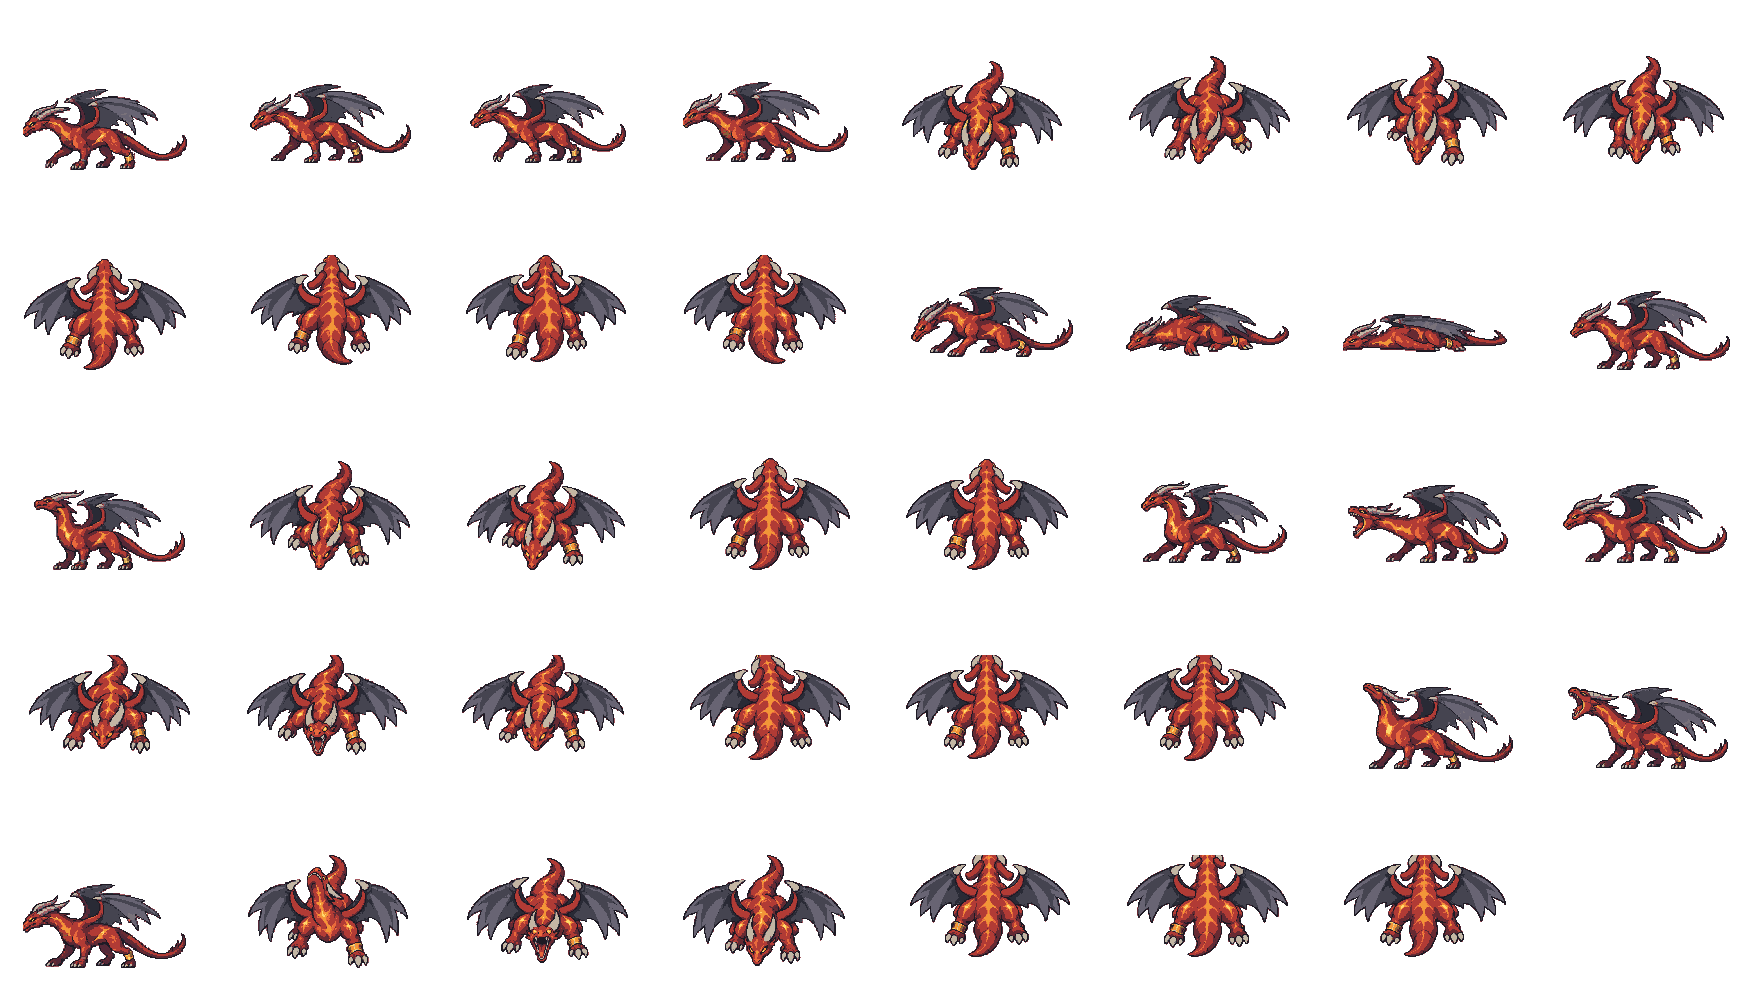
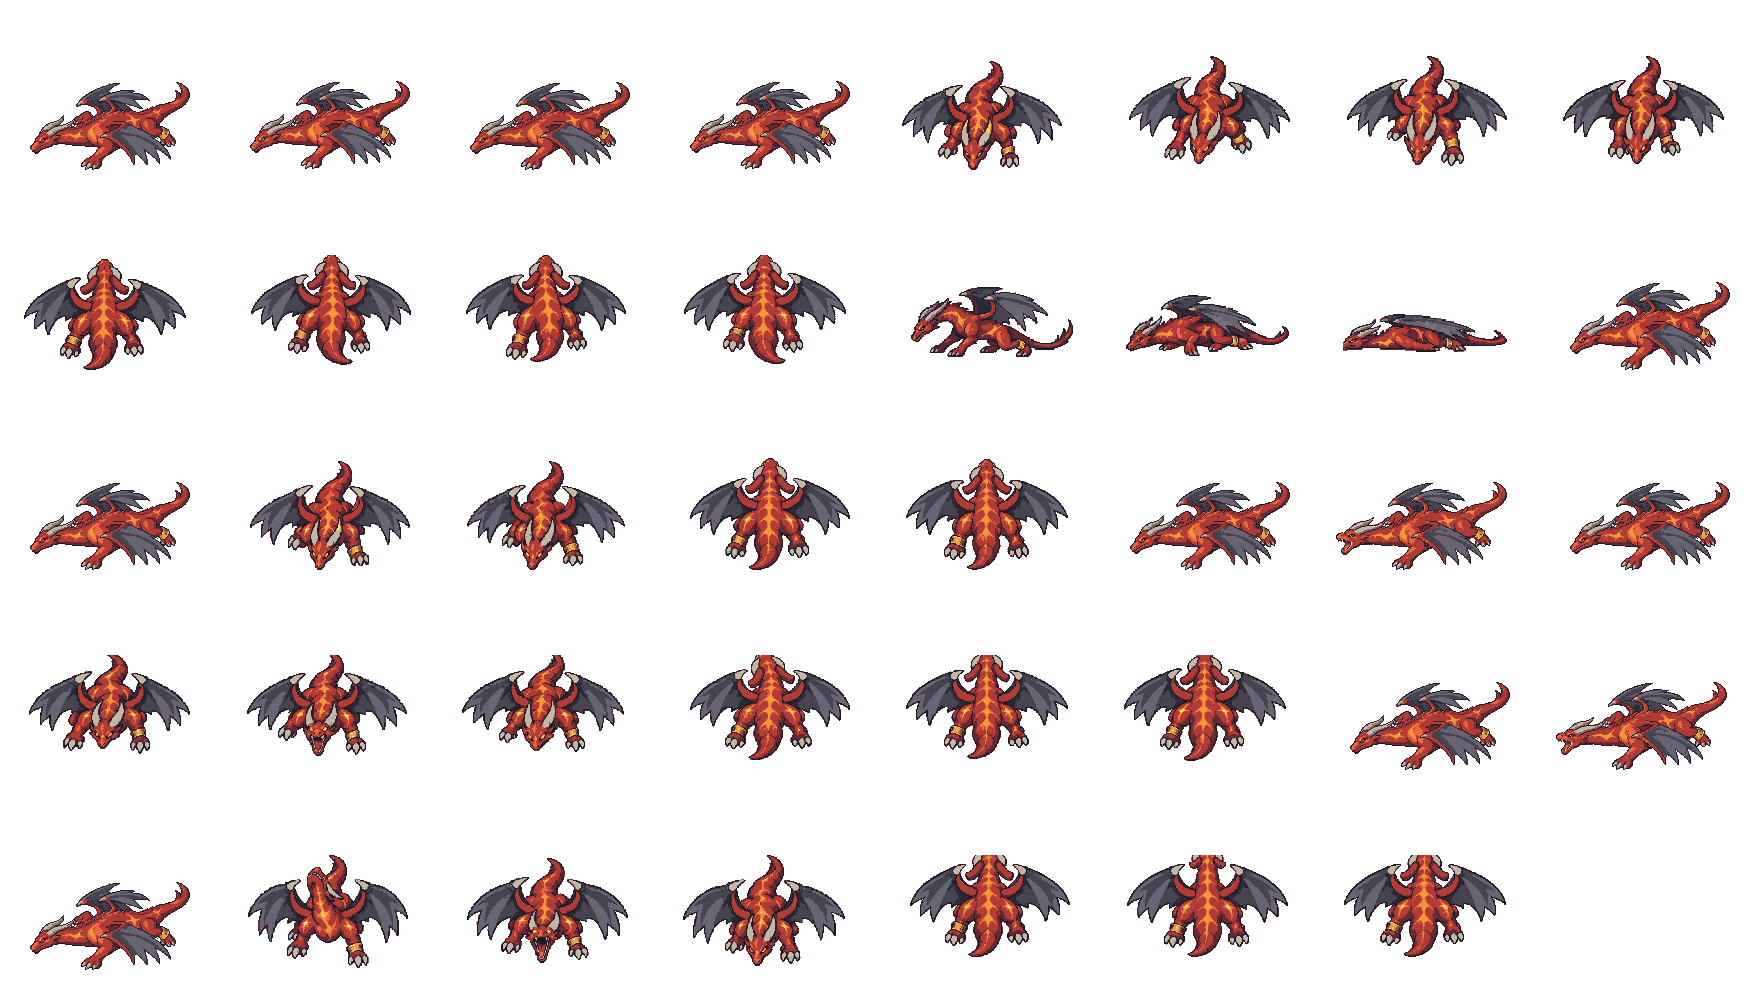
Nowy rzut smoka ognistego (z góry), smoki rysowane według stóp, kupiec przy rondzie jako 1–5 działających straganów
Claude-Session: https://claude.ai/code/session_0186B56UngdyZ3nbG8b67Ype

diff --git a/src/scenes/GameScene.ts b/src/scenes/GameScene.ts
@@ -19,6 +19,7 @@ import type { Korona } from '../map/Korony';
 import { Pociagi } from '../map/Pociagi';
 import { torStacji } from '../map/perony';
 import { WYGLAD_09 } from '../map/Podloze09';
+import { straganObraz } from '../map/targ09';
 import { GEN_DOTS } from '../map/ziemia09';
 import { DRZEWA_09 } from '../content/korony';
 import { Explored, FogView, visionPolygon, BASE_VIEW_RANGE, pointInPolygon, markBuilding } from '../map/Fog';
@@ -349,6 +350,7 @@ export class GameScene extends Phaser.Scene {
   }
 
   create() {
+    this.stalls = [];
     this.pociagi = undefined; // scenes are reused: the trains belong to the new map view
     this.city = this.registry.get('city') as CityMap;
     this.enemies = [];
@@ -514,6 +516,7 @@ export class GameScene extends Phaser.Scene {
       const look = PLACE_LOOK[p.kind];
       if (p.building && !this.mapView.highlight.has(p.building)) this.mapView.highlight.set(p.building, { roof: look.roof, wall: look.wall });
       if (p.kind === 'station') this.stationVehicles(p);
+      else if (p.kind === 'merchant' && WYGLAD_09) this.merchantStalls(p);
       else {
         const post = this.signPost(p);
         if (post) this.farObjects.push(...post);
@@ -833,13 +836,13 @@ export class GameScene extends Phaser.Scene {
         s.vel.set(away.x, away.y);
         this.moveActor(s, dt);
         s.updateLook();
-        s.setDepth(s.y);
+        s.setDepth(s.y + s.depthOff);
         continue;
       }
       // The story's dragon before the fight (or a friendly one): stays put.
       if (s.peaceful) {
         s.vel.set(0, 0);
-        s.setDepth(s.y);
+        s.setDepth(s.y + s.depthOff);
         continue;
       }
       // Far from the hero: asleep (saves work on phones).
@@ -854,7 +857,7 @@ export class GameScene extends Phaser.Scene {
       else s.think(target, now);
       this.moveActor(s, dt);
       s.updateLook();
-      s.setDepth(s.y);
+      s.setDepth(s.y + s.depthOff);
       if (now < this.noHurtUntil) continue; // just back from a talk: a moment of peace
       if (dragon) continue; // its claws hurt, not touching it
       if (s.duel && Phaser.Math.Distance.Between(s.x, s.y, this.player.x, this.player.y) < 5 + s.size) {
@@ -1143,6 +1146,16 @@ export class GameScene extends Phaser.Scene {
         talk();
       }
       return;
+    }
+    // A swing at a merchant's stall (or a click on one near the hero, or standing by it): the merchant's shop.
+    if (!foeNear && !strong && performance.now() >= this.talkReadyAt && this.stalls.length) {
+      const c = this.clickWorld && Math.hypot(this.clickWorld.x - this.player.x, this.clickWorld.y - this.player.y) < 90 ? this.clickWorld : null;
+      const st = this.stallAt(hit.x, hit.y, 10) ?? (c && this.stallAt(c.x, c.y, 9)) ?? this.stallAt(this.player.x, this.player.y, 13);
+      if (st) {
+        this.learnPlace();
+        this.openShop(st);
+        return;
+      }
     }
     // A swing at a train (any carriage), a click on it near the hero, or a swing while standing by it: its station's conductor.
     if (!foeNear && !strong && performance.now() >= this.talkReadyAt && this.pociagi) {
@@ -1699,6 +1712,61 @@ export class GameScene extends Phaser.Scene {
       }
     }
     return p.door;
+  }
+
+  /** Merchant stalls by the roundabout: where each stands and whose shop it opens (a swing on any of them). */
+  private stalls: { x: number; y: number; p: CityPlace }[] = [];
+
+  /**
+   * The travelling merchant (09 look, owner 7 Oct 2026: „zamień stragan bez ikonki na losowy”): instead of the cart sign
+   * 1–5 market stalls in one loose group by the place's door, each in its own colours (targ09 `straganObraz`), fixed by
+   * the place id; every one of them opens the same shop. The trade point keeps its golden glow on the middle stall.
+   */
+  private merchantStalls(p: CityPlace) {
+    // Free spots can be judged only once the tiles there are in (unloaded ground counts as blocked): wait for them.
+    const d = p.door;
+    if (!this.city.ready({ x0: d.x - 60, y0: d.y - 60, x1: d.x + 60, y1: d.y + 60 })) {
+      this.time.delayedCall(2000, () => this.merchantStalls(p));
+      return;
+    }
+    let h = 2166136261;
+    for (let i = 0; i < p.id.length; i++) h = Math.imul(h ^ p.id.charCodeAt(i), 16777619);
+    const los = () => { h = Math.imul(h ^ (h >>> 15), 2246822507) ^ Math.imul(h ^ (h >>> 13), 3266489909); return ((h >>> 0) % 10000) / 10000; };
+    const ile = 1 + Math.floor(los() * 5);
+    const miejsca = [[0, 0], [-17, 3], [17, 3], [-9, -13], [9, -13], [0, 16], [-26, -9], [26, -9]];
+    const at = this.signSpot(p);
+    let postawione = 0;
+    for (const [dx, dy] of miejsca) {
+      if (postawione >= ile) break;
+      const x = at.x + dx + Math.round((los() - 0.5) * 4), y = at.y + dy + Math.round((los() - 0.5) * 3);
+      if (this.city.isBlocked(x - 7, y) || this.city.isBlocked(x + 7, y) || this.city.isBlocked(x, y - 10)) continue;
+      const seed = Math.floor(los() * 1e6);
+      const key = `stragan-${seed % 40}`;
+      if (!this.textures.exists(key)) {
+        const { o } = straganObraz((seed % 40) * 37 + 11); // 40 looks: awning colours and goods from the seed
+        const t = this.textures.createCanvas(key, o.w, o.h)!;
+        t.getContext().putImageData(new ImageData(new Uint8ClampedArray(o.px.buffer as ArrayBuffer, o.px.byteOffset, o.px.byteLength).slice(), o.w, o.h), 0, 0);
+        t.refresh();
+        t.setFilter(Phaser.Textures.FilterMode.NEAREST);
+      }
+      // Generator px: 2 per map px; the table's foot (17, 29) on the spot.
+      const img = this.add.image(x, y, key).setOrigin(17 / 34, 29 / 32).setScale(0.5).setDepth(y).setFlipX(los() < 0.5);
+      this.farObjects.push(img);
+      if (postawione === 0) this.farObjects.push(this.signGlow(img));
+      this.stalls.push({ x, y: y - 5, p });
+      postawione++;
+    }
+    if (!postawione) {
+      const img = this.add.image(at.x, at.y, TEX.cart).setDepth(900_000);
+      this.farObjects.push(img, this.signGlow(img));
+    }
+  }
+
+  /** The stall under a swing / click / next to the hero, if any. */
+  private stallAt(x: number, y: number, r: number) {
+    let best: CityPlace | null = null, d = r;
+    for (const st of this.stalls) { const e = Math.hypot(st.x - x, st.y - y); if (e < d) { d = e; best = st.p; } }
+    return best;
   }
 
   /** A soft golden glow behind a place's sign (content/swiat.ts POSWIATA_SZYLDU), so shops are easy to spot. */
@@ -3996,7 +4064,7 @@ export class GameScene extends Phaser.Scene {
   private openShop(p: CityPlace, tab = 0) {
     const offers = this.offers('sklep');
     if (this.sellsAxe(p) && !ownsAxe()) offers.unshift(item('siekiera')!);
-    const title = p.kind === 'merchant' ? `🛒 Obwoźny kupiec (${p.name})` : `🛒 ${p.name}`;
+    const title = p.kind === 'merchant' ? `🛒 Stragany (${p.name})` : `🛒 ${p.name}`;
     const tabs = { labels: ['🛒 Kupuj', '💰 Sprzedaj'], active: tab, colors: [0x2f6f9f, 0x3fa34d] };
     const switchTab = (i: number) => i < 0 && this.openShop(p, -1 - i);
     if (tab === 1) {
@@ -4042,7 +4110,7 @@ export class GameScene extends Phaser.Scene {
     const quiver = ownedAmmo().map((k) => `\n${AMUNICJA[k].ikona} ${AMUNICJA[k].nazwa}: ${gear.ammo[k]}/${STRZALY.kolczan}`).join('');
     this.dialog({
       title, tabs,
-      text: (p.kind === 'merchant' ? `Kupiec z wozem zatrzymał się na rondzie. Masz ${session.coins} monet.` : `Kowal za ladą poleca swój towar. Masz ${session.coins} monet.`) + quiver + (offers.length ? '' : '\n\nMasz już najlepsze rzeczy, jakie tu mają!'),
+      text: (p.kind === 'merchant' ? `Kupcy rozstawili stragany przy rondzie. Masz ${session.coins} monet.` : `Kowal za ladą poleca swój towar. Masz ${session.coins} monet.`) + quiver + (offers.length ? '' : '\n\nMasz już najlepsze rzeczy, jakie tu mają!'),
       buttons: [...tools, ...extra.map(([l]) => l), ...offers.map((o) => this.label(o)), 'Wyjdź'],
       icons: [...tools.map(() => null), ...fixes.map((id) => itemTexture(id)), ...packs.map(({ k }) => `item-${k}`), ...offers.map((o) => itemTexture(o.id)), null],
       onChoose: (i) => {

diff --git a/src/content/smoki.ts b/src/content/smoki.ts
@@ -87,7 +87,9 @@ export const SMOKI_NA_MAPIE = { odPoziomu: 5, szansa: 0.18, maksMiejsc: 4, prob:
  */
 export const RYSUNKI_SMOKOW: Partial<Record<GatunekId, { plik: string; komorka: [number, number]; srodek: [number, number]; doLap: number; klatki: string[]; efekty: boolean;
   /** Pysk w klatce (px komórki) dla pozy bok (patrzy w lewo) / przód / tył: stąd wylatuje ogień i kwas. */
-  pysk?: Record<'bok' | 'przod' | 'tyl', [number, number]> }>> = {
+  pysk?: Record<'bok' | 'przod' | 'tyl', [number, number]>;
+  /** Wiersz stóp w klatce: głębia rysowania liczona od stóp (drzewo przed łapami zasłania smoka, a nie jego środek). */
+  stopy?: number }>> = {
   gorski: {
     plik: 'swiat/smoki/smok_gorski.png', komorka: [216, 194], srodek: [108, 89], doLap: 65.6,
     klatki: ["idzie_bok_1", "idzie_bok_2", "idzie_bok_3", "idzie_bok_4", "idzie_przod_1", "idzie_przod_2", "idzie_przod_3", "idzie_przod_4", "idzie_tyl_1", "idzie_tyl_2", "idzie_tyl_3", "idzie_tyl_4", "ladowanie_przod_1", "ladowanie_przod_2", "ladowanie_przod_3", "lot_gora_1", "lot_gora_2", "smierc_bok_1", "smierc_bok_2", "smierc_bok_3", "start_bok_1", "start_bok_2", "start_bok_3", "start_przod_1", "start_przod_2", "start_przod_3", "stoi_bok_1", "stoi_bok_2", "stoi_przod_1", "stoi_przod_2", "stoi_tyl_1", "stoi_tyl_2", "ugryzienie_bok_1", "ugryzienie_bok_2", "ugryzienie_bok_3", "ugryzienie_przod_1", "ugryzienie_przod_2", "ugryzienie_przod_3", "ugryzienie_tyl_1", "ugryzienie_tyl_2", "ugryzienie_tyl_3"],
@@ -96,13 +98,14 @@ export const RYSUNKI_SMOKOW: Partial<Record<GatunekId, { plik: string; komorka: 
   // Paczka „smoki_swinka_dekoracje” (7.10.2026, zamówienie 15b): klatki 220×200 już w skali gry, stopy w [110, 170]
   // (scripts/smoki-nowe.py skleja arkusze); ziej/pluj: 1 zapowiada, 2 wyrzuca, 3 wraca.
   ognisty: {
-    plik: 'swiat/smoki/smok_ognisty.png', komorka: [220, 200], srodek: [110, 130], doLap: 40,
+    plik: 'swiat/smoki/smok_ognisty.png', komorka: [220, 200], srodek: [110, 130], doLap: 40, stopy: 170,
     klatki: ["idzie_bok_1", "idzie_bok_2", "idzie_bok_3", "idzie_bok_4", "idzie_przod_1", "idzie_przod_2", "idzie_przod_3", "idzie_przod_4", "idzie_tyl_1", "idzie_tyl_2", "idzie_tyl_3", "idzie_tyl_4", "smierc_bok_1", "smierc_bok_2", "smierc_bok_3", "stoi_bok_1", "stoi_bok_2", "stoi_przod_1", "stoi_przod_2", "stoi_tyl_1", "stoi_tyl_2", "ugryzienie_bok_1", "ugryzienie_bok_2", "ugryzienie_bok_3", "ugryzienie_przod_1", "ugryzienie_przod_2", "ugryzienie_przod_3", "ugryzienie_tyl_1", "ugryzienie_tyl_2", "ugryzienie_tyl_3", "ziej_bok_1", "ziej_bok_2", "ziej_bok_3", "ziej_przod_1", "ziej_przod_2", "ziej_przod_3", "ziej_tyl_1", "ziej_tyl_2", "ziej_tyl_3"],
     efekty: false,
-    pysk: { bok: [32, 95], przod: [100, 152], tyl: [108, 58] },
+    // bok: nowy rzut z góry (paszcza nisko, ognisty_rzut_v2)
+    pysk: { bok: [20, 143], przod: [100, 152], tyl: [108, 58] },
   },
   kwasowy: {
-    plik: 'swiat/smoki/smok_kwasowy.png', komorka: [220, 200], srodek: [110, 130], doLap: 40,
+    plik: 'swiat/smoki/smok_kwasowy.png', komorka: [220, 200], srodek: [110, 130], doLap: 40, stopy: 170,
     klatki: ["idzie_bok_1", "idzie_bok_2", "idzie_bok_3", "idzie_bok_4", "idzie_przod_1", "idzie_przod_2", "idzie_przod_3", "idzie_przod_4", "idzie_tyl_1", "idzie_tyl_2", "idzie_tyl_3", "idzie_tyl_4", "pluj_bok_1", "pluj_bok_2", "pluj_bok_3", "pluj_przod_1", "pluj_przod_2", "pluj_przod_3", "pluj_tyl_1", "pluj_tyl_2", "pluj_tyl_3", "smierc_bok_1", "smierc_bok_2", "smierc_bok_3", "stoi_bok_1", "stoi_bok_2", "stoi_przod_1", "stoi_przod_2", "stoi_tyl_1", "stoi_tyl_2", "ugryzienie_bok_1", "ugryzienie_bok_2", "ugryzienie_bok_3", "ugryzienie_przod_1", "ugryzienie_przod_2", "ugryzienie_przod_3", "ugryzienie_tyl_1", "ugryzienie_tyl_2", "ugryzienie_tyl_3"],
     efekty: false,
     pysk: { bok: [30, 120], przod: [95, 165], tyl: [110, 58] },

diff --git a/src/map/targ09.ts b/src/map/targ09.ts
@@ -1,4 +1,4 @@
-import { hash, hex, ustaw, OBRYS, type Obraz } from '../gen';
+import { hash, hex, ustaw, OBRYS, nowy, type Obraz } from '../gen';
 import { rysunekOzdoby, type RysunekOzdoby } from '../gen/budynki';
 
 // Stragany na placach (overhaul 09, właściciel 5.10.2026: „na placu Zamkowym zrobiłeś parking – lepiej stragany”).
@@ -97,4 +97,11 @@ function stragan(o: Obraz, X0: number, Y0: number, x: number, y: number, seed: n
   for (let i = -14; i <= 14; i++) { const fal = (i + 14) % 3 === 1 ? 2 : 1; for (let j = 1; j <= fal; j++) put(x + i, top + 8 + j, j === fal ? OBRYS : Math.floor((i + 14) / 3) % 2 ? pasy[1] : pasy[0]); }
   // mosiężna kulka na szczycie
   put(x, top - 1, MOS[3]); put(x, top - 2, MOS[2]); put(x - 1, top - 1, OBRYS); put(x + 1, top - 1, OBRYS);
+}
+
+/** Jeden stragan jako osobny obrazek (kupiec przy rondzie: działające stragany w grze). Podstawa stołu w (`bx`, `by`), px generatora. */
+export function straganObraz(seed: number): { o: Obraz; bx: number; by: number } {
+  const o = nowy(34, 32);
+  stragan(o, 0, 0, 17, 29, seed);
+  return { o, bx: 17, by: 29 };
 }

diff --git a/src/objects/Slime.ts b/src/objects/Slime.ts
@@ -272,6 +272,8 @@ export class Slime extends Phaser.GameObjects.Sprite {
   ownLook = false;
   /** Body radius for blows and reach, when not the usual (the artist's big mountain dragon). */
   sizeOverride?: number;
+  /** Depth below the position (map px): a big drawn dragon's point is its body centre, its feet are lower – trees in front of the feet must cover it, not its middle. */
+  depthOff = 0;
 
   /** Returns true if this hit killed the slime. */
   hit(from: Phaser.Math.Vector2, now: number, damage = 1): boolean {

diff --git a/src/objects/SmokAI.ts b/src/objects/SmokAI.ts
@@ -92,6 +92,7 @@ export class SmokAI {
       d.setOrigin(r.srodek[0] / r.komorka[0], r.srodek[1] / r.komorka[1]);
       d.ownLook = true;
       d.sizeOverride = Math.round(r.komorka[0] * SKALA_RYSUNKU * 0.24);
+      d.depthOff = r.stopy ? (r.stopy - r.srodek[1]) * SKALA_RYSUNKU : 0;
       this.skala = SKALA_RYSUNKU;
       this.rysunek = true;
     });

diff --git a/scripts/smoki-nowe.py b/scripts/smoki-nowe.py
@@ -26,8 +26,23 @@ for g in ('ognisty', 'kwasowy'):
     w, h = 220, 200
     wier = (len(pliki) + KOL - 1) // KOL
     ark = Image.new('RGBA', (w * KOL, h * wier), (0, 0, 0, 0))
+    # Smok ognisty, nowy rzut z góry (próbki grafika 7.10.2026, ognisty_rzut_v2/, stopy w [110,165] → +5 px w dół):
+    # właściciel: „podmień czerwonego smoka na nowego”. Są tylko 2 klatki z boku, więc cały bok (stoi, idzie, ziej,
+    # ugryzienie) składamy z nich: chód = postój z podskokiem o 1 px, otwarta paszcza = ziej_2. Przód/tył/śmierć – stare.
+    v2 = os.path.join(ZR, 'ognisty_rzut_v2')
+    if g == 'ognisty' and os.path.isdir(v2):
+        stoi = rgba(os.path.join(v2, 'smok_ognisty_stoi_bok_1.png'))
+        ziej = rgba(os.path.join(v2, 'smok_ognisty_ziej_bok_2.png'))
+        def kl(im, dy):
+            c = Image.new('RGBA', (w, h), (0, 0, 0, 0)); c.paste(im, (0, 5 + dy)); return c
+        zamiana = {'stoi_bok_1': kl(stoi, 0), 'stoi_bok_2': kl(stoi, 0), 'idzie_bok_1': kl(stoi, 0), 'idzie_bok_2': kl(stoi, -1),
+                   'idzie_bok_3': kl(stoi, 0), 'idzie_bok_4': kl(stoi, -1), 'ziej_bok_1': kl(stoi, 0), 'ziej_bok_2': kl(ziej, 0),
+                   'ziej_bok_3': kl(stoi, 0), 'ugryzienie_bok_1': kl(stoi, 0), 'ugryzienie_bok_2': kl(ziej, 0), 'ugryzienie_bok_3': kl(stoi, 0)}
+    else:
+        zamiana = {}
     for i, f in enumerate(pliki):
-        ark.paste(rgba(os.path.join(d, f)), ((i % KOL) * w, (i // KOL) * h))
+        n = nazwy[i]
+        ark.paste(zamiana[n] if n in zamiana else rgba(os.path.join(d, f)), ((i % KOL) * w, (i // KOL) * h))
     ark.save(os.path.join(CEL, f'smok_{g}.png'), optimize=True)
     json.dump({'komorka': [w, h], 'stopy': [110, 170], 'klatki': nazwy}, open(os.path.join(CEL, f'smok_{g}.json'), 'w'))
     print(g, len(nazwy), json.dumps(nazwy))

diff --git a/CLAUDE.md b/CLAUDE.md
@@ -172,3 +172,4 @@
 - Weather anomaly (owner 7 Oct 2026; content/anomalia.ts, scenes/Anomalia.ts): once per login, when the hero walks out past ANOMALIA.odKm (7 km) from the Głęboka/Muzyczna crossing (lat/lon distance, so on world maps too; jumps > 1 km/s and rides don't count; not in the demo): „!” and looking around like the dragon's shadow, the sky darkens (HTML layer), lightning (the game canvas CSS-filtered black-and-white, white flashes, `grzmot()` in sfx.ts, a shake), then sunshine (warm layer + brighter filter), a moment of the strongest wind (weather.wind = 24 for 2.6 s – trees/steam/clouds follow it), back to the real weather, then „Anomalie pogodowe... Chyba lepiej wrócić do miasta.” and „Gra jest wciąż w przygotowaniu. Exp-loruj śmiało, ale poza Lublinem zadań jest na razie znacznie mniej.” + „Ps. Na wyprawę dobrze zabrać ze sobą namiot. Pierwszy gratis!” – the first time per character (flag `namiot_gratis` in session.flagi) a free ordinary tent (NAMIOT.rodzaje[0]) is added to session.namioty and the game saves. The hero can't move or swing meanwhile (`anomalia.busy`); `window.__anomalia.play()` for tests.
 - Owner's demo play-test (7 Oct 2026): relief shading and contour lines are painted only where the heights within GORY.poziomiceRzezbaM (600 m) of the chunk spread ≥ GORY.poziomiceOdM (120 m) (MapRenderer.paintRelief; flat ground and Wawel get none); the demo's planted fruit trees use the generator's trees in the 09 look (Ambient `drzewo09Tekstura`: trunk + crown, frames full/bare); the demo's Wawel dragon is the artist's mountain dragon run by SmokAI ('gorski', life still SEN.ciosow blows; objects/Dragon.ts DragonBrain is no longer used); tram lines are grooves in the road (gen `koleiny`, kind map 'droga' under them) while railways keep ballast and sleepers; townsfolk on a street that runs along tram rails walk on its side (`rownolegla`, half the road width + 1 m).
 - Pack „smoki_swinka_dekoracje” (7 Oct 2026, order 15b): fire and acid dragons – 39 frames 220×200 each, already at game size, feet at [110,170]; `scripts/smoki-nowe.py` (sources in scripts/smoki-zrodla/paczka_ssd/) glues them into public/swiat/smoki/smok_<ognisty|kwasowy>.png (+ .json) and the effects into strips efekt_<ogien_*|przypalona_plama|pocisk_kwasu|rozbryzg_kwasu|kaluza_kwasu>.png. RYSUNKI_SMOKOW entries (srodek [110,130], `pysk` per pose = where fire/acid leave), EFEKTY_ATAKOW (anchor + drawn length) in content/smoki.ts; smokRysunki `zaladujEfektyAtakow` loads the effects at any dragon (the story's Cień uses them too). SmokAI: telegraph shows ziej/pluj frame 1, the attack frame 2, then frame 3 (`pozaWyrzutDo`/`pozaPowrotDo`); with the fire art the cone snaps to 8 directions (`plomienGrafika`, left = mirror), flame frames 1 → flicker 2/3 → 3; acid balls are the artist's animated ball turned along the flight, `rozbryzg` on landing, the puddle (`kaluza`) and scorch (`plama`, 3 phases over its life) use the art, cones and puddles start at the snout (`pysk()`). The rubber piggy is the artist's 16×16 (public/swiat/swinka.png, `useArtist` scale 0.5, NEAREST). Plaza decorations replace the painted market stalls (TARG.szansa 0): `scripts/dekoracje-plac.py` shrinks the 6 pictures (clock, steam pump, telescope, bench, copper pot, notice case) by voting to hero scale into public/swiat/ozdoby/plac_*.png (OZDOBY_PLIKI → worker), targ09 `stragany` stamps them on every other column of the 30×28 grid at TARG.dekoracje with TARG.mieszanka shares (pot 30, bench 25, clock 15, case 15, pump 10, telescope 5), sometimes mirrored, with a short shadow; they're ground paint (no collision, no interaction). The artist's idea of 1–5 active stalls at a trade point isn't done (no active stalls exist).
+- (7 Oct 2026, owner) Fire dragon „nowy rzut” (2 trial frames from the artist, seen from above at ~60°: scripts/smoki-zrodla/paczka_ssd/ognisty_rzut_v2/, feet at [110,165] → pasted 5 px lower): owner „podmień czerwonego smoka na nowego”, so smoki-nowe.py builds every side frame from them (stoi/idzie with a 1 px bob/ziej 1+3/ugryzienie 1+3 = the standing frame, ziej 2 and ugryzienie 2 = the open jaw); front/back/death stay the old frames until the artist redraws them; side snout [20,143]. Art dragons draw at the depth of their feet (`Slime.depthOff` = (RYSUNKI_SMOKOW.stopy − srodek) × 0.5), so a tree in front of the paws covers them, not one behind the body. The merchant at roundabouts (09 look; it was the code-drawn cart without a signboard): `merchantStalls` in GameScene puts 1–5 market stalls (targ09 `straganObraz`, 40 looks by seed, NEAREST, 0.5) in a loose group at the place's sign spot, fixed by the place id, waiting until the tiles there are loaded; the middle one keeps the golden glow; a swing on any stall, a click on one near the hero or a swing standing next to it opens the shop (`stallAt`), titled „🛒 Stragany (…)”. Plaza/parking decorations confirmed by the owner (they replace the idle painted stalls).

diff --git a/scripts/smoki-zrodla/paczka_ssd/ognisty_rzut_v2/DLA_PROGRAMISTY.md b/scripts/smoki-zrodla/paczka_ssd/ognisty_rzut_v2/DLA_PROGRAMISTY.md
@@ -1,0 +1,20 @@
+# Smok ognisty — próbki poprawionego rzutu
+
+Dwie klatki próbne, nie pełna podmiana animacji.
+
+- `smok_ognisty_stoi_bok_1.png`: stanie, kierunek w lewo.
+- `smok_ognisty_ziej_bok_2.png`: poza ziania, kierunek w lewo, bez efektu ognia.
+
+Zmiana dotyczy geometrii: widoczna górna powierzchnia grzbietu, niżej wyciągnięta szyja, skrócone perspektywą łapy oraz skrzydła po bliższej i dalszej stronie ciała.
+
+Obie klatki: 220 × 200 px; wspólna paleta 16 kolorów wraz z tłem #FF00FF. Eksport bez wygładzania. `metadata.json` zawiera granice rysunku i punkt odniesienia eksportu [110, 165]. To punkt techniczny; rzeczywisty pivot silnika trzeba sprawdzić w grze.
+
+## Test w grze
+
+Wyświetlić najpierw każdą klatkę statycznie przy postaci i drzewie. Sprawdzić skalę, osadzenie łap i kolejność rysowania drzewa względem smoka. Na przesłanym zrzucie drzewo zasłania środek tułowia.
+
+Pozostałe klatki wcześniejszej paczki mają stary rzut. Mieszanie ich z tymi próbkami spowoduje skok perspektywy. Przed pełną podmianą należy przerysować pozostałe animacje według nowego układu.
+
+Położenie wylotu płomienia należy dopasować do nowego, niższego pyska. Efekt ognia pozostaje osobnym sprite’em.
+
+`podglad_1x.png` pokazuje obie klatki w rozmiarze docelowym; `podglad_x3.png` to powiększenie bez wygładzania. `zrodlo.png` jest rysunkiem źródłowym generatora, nie arkuszem do bezpośredniego importu.
